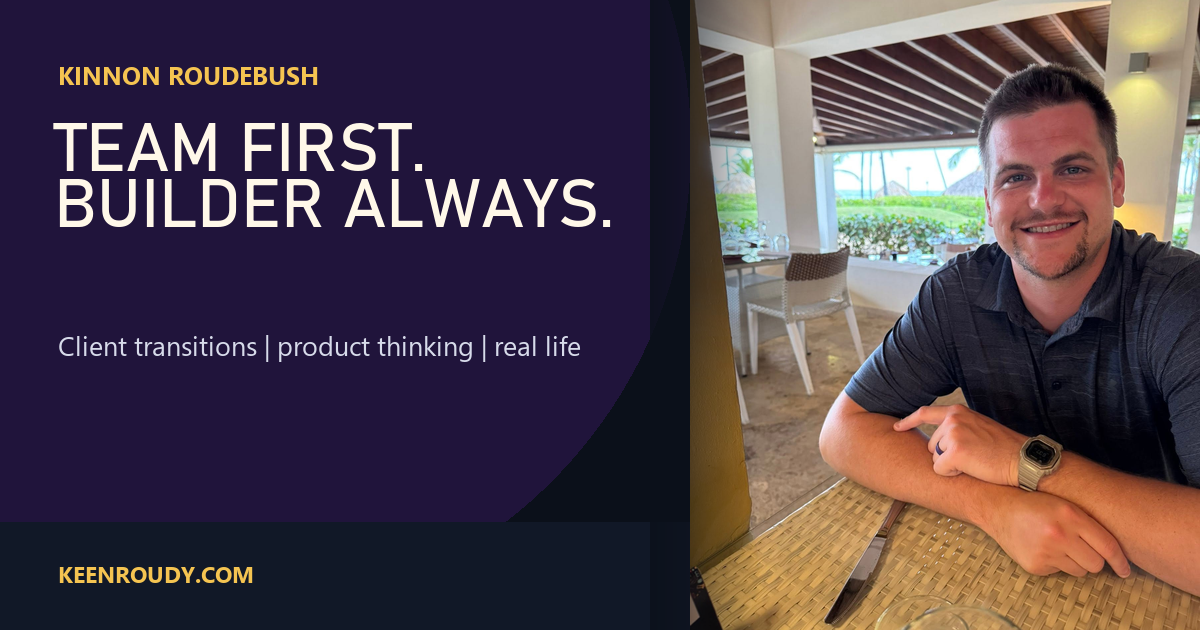
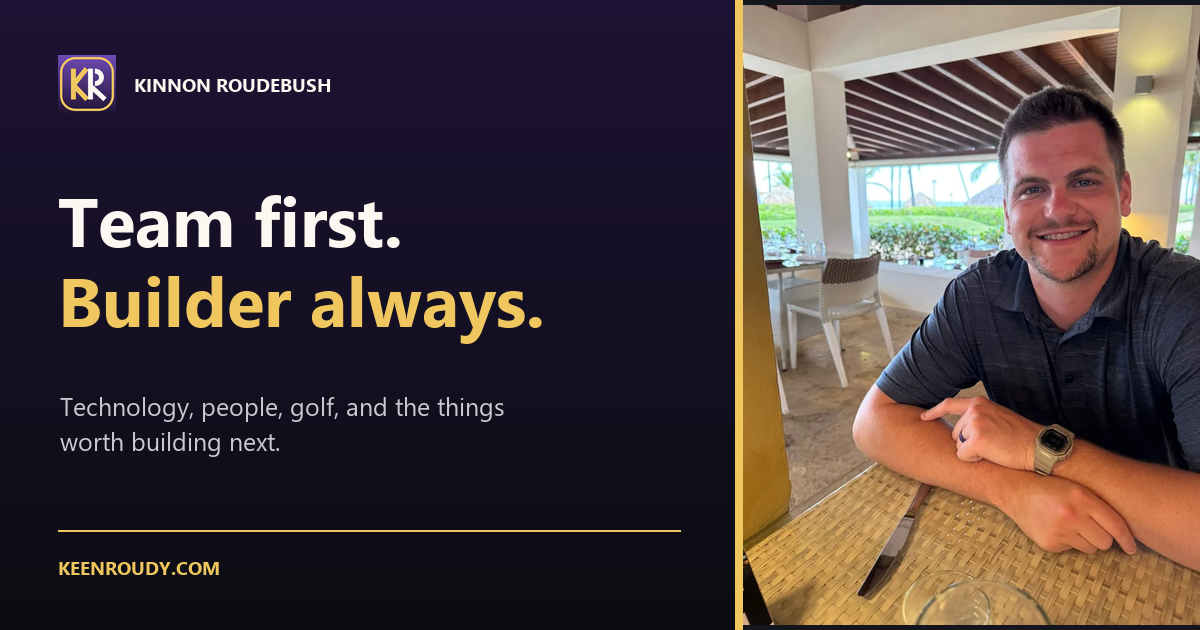
Refresh social preview for portfolio brand

diff --git a/index.html b/index.html
@@ -5,7 +5,7 @@
   <meta name="viewport" content="width=device-width, initial-scale=1">
   <title>Kinnon Roudebush | Builder, problem solver, dad</title>
   <meta name="description" content="Kinnon Roudebush is an Indiana raised technical implementation leader, husband, dad of three, and cofounder of MyGolfLinks.">
-  <meta name="theme-color" content="#0b101a">
+  <meta name="theme-color" content="#0c0d12">
   <link rel="preconnect" href="https://fonts.googleapis.com">
   <link rel="preconnect" href="https://fonts.gstatic.com" crossorigin>
   <link href="https://fonts.googleapis.com/css2?family=Inter:wght@400;500;600;700&family=Sora:wght@500;600;700&display=swap" rel="stylesheet">
